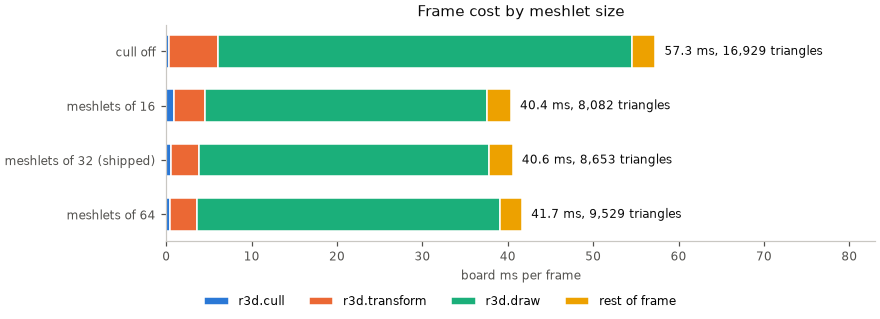
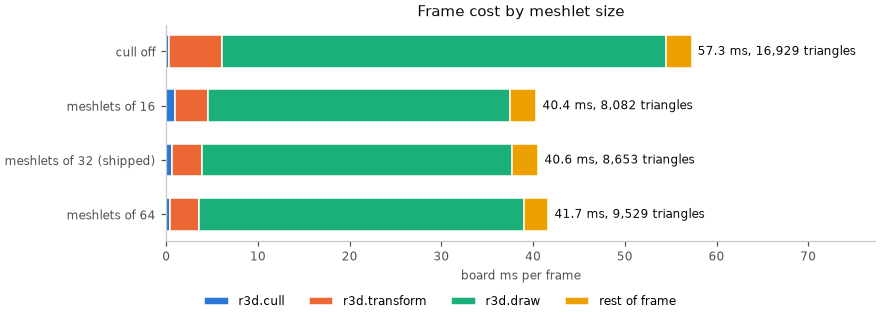
tools: one stacked bar helper for the doc charts; byte units from byte_sizes (fs1c review)

diff --git a/launcher/tools/render/bake_steps.py b/launcher/tools/render/bake_steps.py
@@ -17,18 +17,16 @@ import tempfile
 
 ROOT = pathlib.Path(__file__).resolve().parents[3]
 sys.path.insert(0, str(ROOT / "launcher/tools"))
+from render.byte_sizes import GB_BYTES, MB_BYTES
 from render.doc_tables import collapsed, markdown
 
 PERCENT = 100
-BYTES_PER_MIB = 1024 ** 2
-BYTES_PER_GIB = 1024 ** 3
 OTHER_STEPS = "other steps"  # the steps under MIN_SHARE in every bake, drawn as one segment
 MIN_SHARE = 1  # percent: a step this share of some bake or more gets its own colour
 PANEL_WIDTH = 6  # inches
 ROW_HEIGHT = 0.32  # inches per bar
 PANEL_ROOM = 1.2  # inches for each panel's title, axis and legend
-BAR_HEIGHT = 0.7
-LABEL_ROOM = 0.3  # share of the widest bar left free for its label
+TRIANGLES = "triangles"
 LEGEND_COLUMNS = 4
 THOUSAND = 1000
 
@@ -47,7 +45,7 @@ def steps_table(variants, seconds=False):
     """One row per step of each (variant, rows) run; `seconds` adds the wall time, which only the machine
     that ran the bake can read anything into."""
     def mib(value):
-        return "not available" if value is None else f"{value / BYTES_PER_MIB:.1f}"
+        return "not available" if value is None else f"{value / MB_BYTES:.1f}"
     headers = ["Variant", "Step", *(["Wall s"] if seconds else []), "Share of variant", "Triangles in",
                "Triangles out", "Peak RAM MiB", "Peak VRAM MiB"]
     return markdown(headers, [(variant, row["step"], *([f'{row["wall_s"]:.3f}'] if seconds else []), f"{share:.0f}%",
@@ -61,7 +59,7 @@ def memory_line(variants):
     def peak(key):
         found = [(row[key], row["step"]) for _, rows in variants for row in rows if row[key] is not None]
         return max(found) if found else None
-    parts = [f"{value / BYTES_PER_GIB:.1f} GiB of {name} (in {step})"
+    parts = [f"{value / GB_BYTES:.1f} GiB of {name} (in {step})"
              for name, found in (("RAM", peak("peak_ram_bytes")), ("VRAM", peak("peak_vram_bytes"))) if found
              for value, step in [found]]
     return "Peak memory: " + " and ".join(parts) + "."
@@ -85,8 +83,8 @@ def triangle_bars(variants):
 
 
 def chart(variants, path):
-    """Left: each CPU bake's steps as shares of its wall time. Right: the triangles each step leaves."""
-    from docs.plot_style import INK, LABEL_SIZE, MUTED, SLOTS, save, style_axes, subplots
+    """Top: each CPU bake's steps as shares of its wall time. Bottom: the triangles each step leaves."""
+    from docs.plot_style import LABEL_SIZE, MUTED, SLOTS, save, stacked_barh, style_axes, subplots
     cpu = [(variant, rows) for variant, rows in variants if not on_gpu(rows)]
     named = []
     for _, rows in cpu:
@@ -97,46 +95,33 @@ def chart(variants, path):
         raise ValueError(f"{len(named)} steps, {len(SLOTS) - 1} colours")
     colour = dict(zip([*named, OTHER_STEPS], SLOTS))
     bars = triangle_bars(variants)
-    figure, (left, right) = subplots(2, 1, (PANEL_WIDTH, ROW_HEIGHT * (len(cpu) + len(bars)) + 2 * PANEL_ROOM),
+    figure, (top, bottom) = subplots(2, 1, (PANEL_WIDTH, ROW_HEIGHT * (len(cpu) + len(bars)) + 2 * PANEL_ROOM),
                                      gridspec_kw=dict(height_ratios=[len(cpu), len(bars)]))
-    for index, (_, rows) in enumerate(cpu):
-        start = 0.0
+    stacked = []
+    for variant, rows in cpu:
         merged = {}
         for row, share in zip(rows, shares(rows)):
             step = row["step"] if row["step"] in named else OTHER_STEPS
             merged[step] = merged.get(step, 0.0) + share
-        for step, share in merged.items():
-            left.barh(index, share, left=start, color=colour[step], height=BAR_HEIGHT, edgecolor="white",
-                      label=step)
-            start += share
-    handles, labels = left.get_legend_handles_labels()
-    unique = dict(zip(labels, handles))
-    figure.legend([unique[step] for step in colour if step in unique], [step for step in colour if step in unique],
-                loc="outside upper center", ncol=LEGEND_COLUMNS, frameon=False, fontsize=LABEL_SIZE)
-    left.set_yticks(range(len(cpu)), [variant for variant, _ in cpu])
-    left.set_xlim(0, PERCENT)
-    left.set_xlabel("share of the bake's wall time, %", fontsize=LABEL_SIZE, color=MUTED)
-    style_axes(left, "Where each CPU bake spends its time")
-    for index, (label, count) in enumerate(bars):
-        right.barh(index, count, color=SLOTS[0], height=BAR_HEIGHT)
-        right.annotate(f"{count:,}", (count, index), xytext=(4, 0), textcoords="offset points", va="center",
-                       fontsize=LABEL_SIZE, color=INK)
-    right.set_yticks(range(len(bars)), [label for label, _ in bars])
-    right.set_xlim(0, max(count for _, count in bars) * (1 + LABEL_ROOM))
-    right.xaxis.set_major_formatter(lambda value, _: f"{value / THOUSAND:g}k")
-    right.set_xlabel("triangles", fontsize=LABEL_SIZE, color=MUTED)
-    style_axes(right, "Triangles each step leaves")
-    for axis in (left, right):
-        axis.invert_yaxis()
-        axis.tick_params(axis="y", labelsize=LABEL_SIZE)
-        for side in ("top", "right"):
-            axis.spines[side].set_visible(False)
+        stacked.append((variant, list(merged.items())))
+    stacked_barh(top, stacked, colour, extent=PERCENT)
+    handles = dict(zip(*reversed(top.get_legend_handles_labels())))
+    figure.legend([handles[step] for step in colour if step in handles], [step for step in colour if step in handles],
+                  loc="outside upper center", ncol=LEGEND_COLUMNS, frameon=False, fontsize=LABEL_SIZE)
+    top.set_xlabel("share of the bake's wall time, %", fontsize=LABEL_SIZE, color=MUTED)
+    style_axes(top, "Where each CPU bake spends its time")
+    stacked_barh(bottom, [(label, [(TRIANGLES, count)]) for label, count in bars], {TRIANGLES: SLOTS[0]},
+                 [f"{count:,}" for _, count in bars])
+    bottom.xaxis.set_major_formatter(lambda value, _: f"{value / THOUSAND:g}k")
+    bottom.set_xlabel(TRIANGLES, fontsize=LABEL_SIZE, color=MUTED)
+    style_axes(bottom, "Triangles each step leaves")
     save(figure, path)
 
 
-def block(variants, chart_name):
-    """Render-Pipeline.md's `bake-steps` block: the chart, the memory the bakes need, then the rows collapsed."""
-    return (f"![Bake steps](../images/render/gpu/{chart_name})\n\n{memory_line(variants)}\n\n"
+def block(variants, chart_path):
+    """Render-Pipeline.md's `bake-steps` block: the chart at the doc-relative `chart_path`, the memory the bakes
+    need, then the rows collapsed."""
+    return (f"![Bake steps]({chart_path})\n\n{memory_line(variants)}\n\n"
             + collapsed("Bake steps", steps_table(variants)))
 
 

diff --git a/launcher/tools/render/meshlet_sizes.py b/launcher/tools/render/meshlet_sizes.py
@@ -23,8 +23,6 @@ REST = "rest of frame"  # the frame's time outside STAGES
 CHART_WIDTH = 8  # inches
 CHART_ROW_HEIGHT = 0.45  # inches per bar
 CHART_ROOM = 1.1  # inches for the title, axis and legend
-BAR_HEIGHT = 0.6
-LABEL_ROOM = 0.45  # share of the widest bar left free for its label
 IDENTITY = re.compile(r"\bCAPTURE build_id=([0-9a-f]{12}-diag) pack_crc32=([0-9a-f]{8}) object=(\w+) size=(\d+) cull=([01]) period_ms=(\d+) pose_every_ms=(\d+)")
 BLOCK = re.compile(r"=== (\w+) FRAME COST .*?===.*?(?:\1 both cores: mean [^\n]+)", re.S)
 
@@ -118,25 +116,14 @@ def default_size():
 
 def chart(rows, path):
     """Each row's frame as stacked board stages, its total and submitted triangles at the bar's end."""
-    from docs.plot_style import INK, LABEL_SIZE, MUTED, SLOTS, save, style_axes, subplots
+    from docs.plot_style import LABEL_SIZE, MUTED, SLOTS, save, stacked_barh, style_axes, subplots
     figure, axis = subplots(1, 1, (CHART_WIDTH, CHART_ROW_HEIGHT * len(rows) + CHART_ROOM))
-    labels = [label for label, *_ in rows]
-    for index, (_label, _clusters, _ratio, submitted, *stages, frame) in enumerate(rows):
-        left = 0.0
-        for name, value, colour in zip((*STAGES, REST), (*stages, frame - sum(stages)), SLOTS):
-            axis.barh(index, value, left=left, color=colour, height=BAR_HEIGHT, edgecolor="white",
-                      label=name if index == 0 else None)
-            left += value
-        axis.annotate(f"{frame:.1f} ms, {submitted:,.0f} triangles", (frame, index), xytext=(6, 0),
-                      textcoords="offset points", va="center", fontsize=LABEL_SIZE, color=INK)
-    widest = max(row[-1] for row in rows)
-    axis.set_xlim(0, widest * (1 + LABEL_ROOM))
-    axis.set_yticks(range(len(rows)), labels)
-    axis.invert_yaxis()
+    stacked_barh(axis, [(label, list(zip((*STAGES, REST), (*stages, frame - sum(stages)))))
+                        for label, _clusters, _ratio, _submitted, *stages, frame in rows],
+                 dict(zip((*STAGES, REST), SLOTS)),
+                 [f"{frame:.1f} ms, {submitted:,.0f} triangles" for _, _, _, submitted, *_, frame in rows])
     axis.set_xlabel("board ms per frame", fontsize=LABEL_SIZE, color=MUTED)
     style_axes(axis, "Frame cost by meshlet size")
-    for side in ("top", "right"):
-        axis.spines[side].set_visible(False)
     figure.legend(loc="outside lower center", ncol=len(STAGES) + 1, frameon=False, fontsize=LABEL_SIZE)
     save(figure, path)
 

diff --git a/launcher/tools/render/doc_stages.py b/launcher/tools/render/doc_stages.py
@@ -752,11 +752,11 @@ def _gpu(args, out, work, executor):
     machine = machine_table()
     from bake_steps import block as steps_block, chart as steps_chart
     steps_chart(bake_steps, out / "render/gpu" / BAKE_STEPS_CHART)
-    (out / "tables/bake-steps.md").write_text(steps_block(bake_steps, BAKE_STEPS_CHART))
+    (out / "tables/bake-steps.md").write_text(steps_block(bake_steps, f"../images/render/gpu/{BAKE_STEPS_CHART}"))
     (out / "measurements.json").write_text(json.dumps({"source": stamp, "rows": rows, "sweep": sweep,
                                                         "bake_steps": bake_steps, "machine": machine}, indent=2) + "\n")
     apply_tables(ROOT, out / "tables")
-    sync_images(out / "render/gpu", ROOT / "docs/images/render/gpu", False)
+    sync_images(out / "render/gpu", ROOT / "docs/images/render/gpu", check=False)
     files = {path.relative_to(out).as_posix(): hashlib.sha256(path.read_bytes()).hexdigest()
              for path in out.rglob("*") if path.is_file()}
     (out / "source.json").write_text(json.dumps({"source": stamp, "inputs": made_from, "files": files}, indent=2) + "\n")
@@ -773,10 +773,10 @@ def check_gpu(args, out):
         if not path.is_file() or hashlib.sha256(path.read_bytes()).hexdigest() != checksum:
             raise ValueError(f"GPU output missing or altered: {name}; run --stage gpu")
     changed = apply_tables(ROOT, out / "tables", True)
-    return int(sync_images(out / "render/gpu", ROOT / "docs/images/render/gpu", True) or changed)
+    return int(sync_images(out / "render/gpu", ROOT / "docs/images/render/gpu", check=True) or changed)
 
 
-def sync_images(made, kept, check):
+def sync_images(made, kept, *, check):
     """Copies a stage's PNGs from `made` into the docs' `kept`, or with `check` reports each one that differs
     and each kept one the stage no longer makes; returns whether any did."""
     changed = False
@@ -810,7 +810,7 @@ def meshlets(args, out, work):
     body = table(args.scene, args.captures, args.bakes, made / "meshlet-sizes.png")
     (out / "tables/meshlet-sizes.md").write_text(body)
     changed = apply_tables(ROOT, out / "tables", args.check)
-    changed |= sync_images(made, ROOT / "docs/images/render/meshlets", args.check)
+    changed |= sync_images(made, ROOT / "docs/images/render/meshlets", check=args.check)
     return int(args.check and changed)
 
 

diff --git a/launcher/tools/docs/plot_style.py b/launcher/tools/docs/plot_style.py
@@ -38,6 +38,34 @@ def save(fig, path, dpi=DPI):
     plt.close(fig)
 
 
+BAR_HEIGHT = 0.6  # of each bar's row
+END_LABEL_ROOM = 0.35  # share of the longest bar left free past its end for its label
+END_LABEL_GAP = 4  # points between a bar's end and its label
+
+
+def stacked_barh(axis, rows, colours, end_labels=None, extent=None):
+    """Horizontal stacked bars, the first row on top. `rows` is [(label, [(segment, value)])]; each segment takes
+    colours[segment] and names itself once for a legend. `end_labels` sit past each bar's end. The value axis starts
+    at 0 and spans `extent`, by default the longest bar plus room for its label; the top and right spines are hidden."""
+    named, ends = set(), []
+    for index, (_, segments) in enumerate(rows):
+        left = 0.0
+        for segment, value in segments:
+            axis.barh(index, value, left=left, color=colours[segment], height=BAR_HEIGHT, edgecolor="white",
+                      label=None if segment in named else segment)
+            named.add(segment)
+            left += value
+        ends.append(left)
+    for index, (end, text) in enumerate(zip(ends, end_labels or ())):
+        axis.annotate(text, (end, index), xytext=(END_LABEL_GAP, 0), textcoords="offset points", va="center",
+                      fontsize=LABEL_SIZE, color=INK)
+    axis.set_yticks(range(len(rows)), [label for label, _ in rows])
+    axis.set_xlim(0, max(ends) * (1 + END_LABEL_ROOM) if extent is None else extent)
+    axis.invert_yaxis()
+    for side in ("top", "right"):
+        axis.spines[side].set_visible(False)
+
+
 def style_axes(axis, title, *, square=False):
     """A panel's title, ticks and spines in the palette; square keeps one unit the same length on both axes."""
     axis.set_title(title, fontsize=TITLE_SIZE, color=INK)

diff --git a/launcher/tools/tests/test_doc_stages.py b/launcher/tools/tests/test_doc_stages.py
@@ -564,7 +564,7 @@ class FullGpuSchedulingTests(unittest.TestCase):
             self.assertNotIn("Wall s", table)
             self.assertIn("![Bake steps](../images/render/gpu/bake-steps.png)", table)
             self.assertTrue((out / 'render/gpu/bake-steps.png').is_file())
-            sync.assert_called_once_with(out / 'render/gpu', stages.ROOT / 'docs/images/render/gpu', False)
+            sync.assert_called_once_with(out / 'render/gpu', stages.ROOT / 'docs/images/render/gpu', check=False)
             measured = [function for owner, args, kwargs, function in calls
                         if owner is fitted.fit_point and args[1].name.startswith('fit-')]
             self.assertEqual(len(measured), 3)

diff --git a/launcher/tools/tests/test_pipeline_measures.py b/launcher/tools/tests/test_pipeline_measures.py
@@ -234,7 +234,7 @@ class PipelineMeasuresTests(unittest.TestCase):
         def row(step, wall_s, triangles_in, triangles_out, ram, vram=None):
             return dict(step=step, wall_s=wall_s, triangles_in=triangles_in, triangles_out=triangles_out,
                         peak_ram_bytes=ram, peak_vram_bytes=vram)
-        gib = 1024 ** 3
+        from render.byte_sizes import GB_BYTES as gib
         variants = [("a-bake", [row("load", 1, 0, 100, gib), row("simplify", 3, 100, 10, 2 * gib)]),
                     ("b-bake", [row("load", 1, 0, 100, gib), row("simplify", 1, 100, 20, gib)]),
                     ("b-fit", [row("fit", 9, 20, 15, gib, gib // 2)])]

diff --git a/launcher/tools/render/byte_sizes.py b/launcher/tools/render/byte_sizes.py
@@ -2,6 +2,7 @@
 
 KB_BYTES = 1024
 MB_BYTES = KB_BYTES * KB_BYTES
+GB_BYTES = MB_BYTES * KB_BYTES
 
 
 def size_label(nbytes):

diff --git a/docs/Shared-Helpers.md b/docs/Shared-Helpers.md
@@ -249,7 +249,7 @@ Search the [generated catalogue](#catalogue) for an existing owner before writin
 | [launcher/tools/device/gfx_color.py](../launcher/tools/device/gfx_color.py) | gfx_color: the firmware's RGB565 packing (launcher/main/gfx/target/gfx_color.h) for host tools. | `STEP, expand, rgb565, swap` |
 | [launcher/tools/device/panel_size.py](../launcher/tools/device/panel_size.py) | The panel's own size, read from the board header that owns it (bsp/display.h's BSP_LCD_H_RES x BSP_LCD_V_RES, which gfx.h's GFX_WIDTH x GFX_HEIGHT are), so no tool keeps a copy of its own that could drift. | `DISPLAY_HEADER, PANEL_HEIGHT, PANEL_WIDTH` |
 | [launcher/tools/device/screenshot.py](../launcher/tools/device/screenshot.py) | The screenshot wire protocol and decoder: a pure library, imported by scripts/device/device.py's own `screenshot` subcommand (autana's `autana screenshot`) so there is exactly one decoder to drift out of sync with the device. | `BEGIN_RE, DATA_PREFIX, DEFAULT_TURN_QUARTER, END_LINE, REFUSED_PREFIX, STATE_PREFIX, ScreenshotRefused, TRIGGER, bmp_bytes_to_png, panel_point, read_screenshot, turn_png, write_capture` |
-| [launcher/tools/docs/plot_style.py](../launcher/tools/docs/plot_style.py) | The one matplotlib setup of the doc-figure generators: palette, sizes and save options. | `DPI, FAINT, GIF_COLORS, GIF_FPS, GIF_FRAMES, GIF_MILLISECONDS_PER_SECOND, INK, LABEL_SIZE, MUTED, ORBIT_GIF_COLORS, SLOTS, TITLE_SIZE, WIRE_ALPHA, WIRE_SAMPLES, WIRE_STRIDE, WIRE_WIDTH, figure, save, save_gif, style_axes, subplots, wire_sphere` |
+| [launcher/tools/docs/plot_style.py](../launcher/tools/docs/plot_style.py) | The one matplotlib setup of the doc-figure generators: palette, sizes and save options. | `BAR_HEIGHT, DPI, END_LABEL_GAP, END_LABEL_ROOM, FAINT, GIF_COLORS, GIF_FPS, GIF_FRAMES, GIF_MILLISECONDS_PER_SECOND, INK, LABEL_SIZE, MUTED, ORBIT_GIF_COLORS, SLOTS, TITLE_SIZE, WIRE_ALPHA, WIRE_SAMPLES, WIRE_STRIDE, WIRE_WIDTH, figure, save, save_gif, stacked_barh, style_axes, subplots, wire_sphere` |
 | [launcher/tools/fbx/fbx_to_glb.py](../launcher/tools/fbx/fbx_to_glb.py) | Convert an FBX file to a plain binary glTF. | `CACHE, CONVERTER_SOURCES, HERE, PATH_NAMES, cached_glb, convert, main` |
 | [launcher/tools/gen/draw_palette_gen.h](../launcher/tools/gen/draw_palette_gen.h) | draw_palette_gen, host-only build-time helpers for GFX_LAYOUT_INDEXED: the OKLab colour space every palette generator measures with, and the tables derived from a finished palette (the reverse RGB565 -&gt; index map and the per-(index, Bayer phase) dither tables gfx_indexed.h reads). | `draw_palette_gen_build_dither16, draw_palette_gen_build_dither_cell, draw_palette_gen_build_dither_checker2, draw_palette_gen_build_index_map, draw_palette_gen_build_lut_nearest, gfx_lab_dist2, gfx_lab_t, gfx_lin_t, gfx_lin_to_lab, gfx_rgb_to_lin` |
 | [launcher/tools/gfx/curve_asset.py](../launcher/tools/gfx/curve_asset.py) | Bake a drawn curve from NAME.curve.toml into one named int16 table row. | `GREY_BLUE, GREY_GREEN, GREY_RED, GREY_ROUND, GREY_SHIFT, MAX_NEIGHBOUR_STEP_PX, PEAK_DIVISOR, Q_SHIFT, ROW, SPRING_LINE_HEADER, SUFFIX, TOOLS, TYPE, VIEW_H, VIEW_W, bake, column_height, curve_id, heights` |
@@ -306,8 +306,8 @@ Search the [generated catalogue](#catalogue) for an existing owner before writin
 | [launcher/tools/r3d/task_executor.py](../launcher/tools/r3d/task_executor.py) | GPU stage admission using nonblocking NVML samples and shared process budgets. | `GPU_QUERY_SAMPLE_SECONDS, GPU_QUERY_STALE_SECONDS, TaskExecutor` |
 | [launcher/tools/r3d/tessellate.py](../launcher/tools/r3d/tessellate.py) | Edge splitting that keeps a mesh conforming: each edge is split for every triangle sharing it or for none. | `split_marked_edges` |
 | [launcher/tools/r3d/triangle_sizes.h](../launcher/tools/r3d/triangle_sizes.h) | triangle_sizes: how many of a lit mesh's drawn triangles cover 0, 1, 2-4 or more pixel centres from a lens, counted by the top-left rule from the view itself, so any version of the pipeline means the same; the bounding boxes of the triangles the rasterizer chooses a path for, by shading mode; and the poses file the triangle_sizes tool reads. | `R3D_BOXES_FACE, R3D_BOXES_FLAT, R3D_BOXES_MODES, R3D_BOXES_SIDES, R3D_BOXES_SMOOTH, R3D_SIZES_BINS, R3D_SIZES_MORE, R3D_SIZES_ONE, R3D_SIZES_POSES_MAX, R3D_SIZES_TWO_TO_FOUR, R3D_SIZES_ZERO, r3d_boxes_count, r3d_boxes_print, r3d_boxes_t, r3d_sizes_add, r3d_sizes_count, r3d_sizes_poses_t, r3d_sizes_read_poses, r3d_sizes_read_poses_path, r3d_sizes_t` |
-| [launcher/tools/render/bake_steps.py](../launcher/tools/render/bake_steps.py) | Each step of a scene's mesh bakes: its wall time, the triangles it took and left, and the memory it peaked at. | `BAR_HEIGHT, BYTES_PER_GIB, BYTES_PER_MIB, LABEL_ROOM, LEGEND_COLUMNS, MIN_SHARE, OTHER_STEPS, PANEL_ROOM, PANEL_WIDTH, PERCENT, ROOT, ROW_HEIGHT, THOUSAND, block, chart, main, memory_line, on_gpu, shares, steps_table, triangle_bars` |
-| [launcher/tools/render/byte_sizes.py](../launcher/tools/render/byte_sizes.py) | Binary byte units and compact size labels shared by reports and charts. | `KB_BYTES, MB_BYTES, size_label, total_label` |
+| [launcher/tools/render/bake_steps.py](../launcher/tools/render/bake_steps.py) | Each step of a scene's mesh bakes: its wall time, the triangles it took and left, and the memory it peaked at. | `LEGEND_COLUMNS, MIN_SHARE, OTHER_STEPS, PANEL_ROOM, PANEL_WIDTH, PERCENT, ROOT, ROW_HEIGHT, THOUSAND, TRIANGLES, block, chart, main, memory_line, on_gpu, shares, steps_table, triangle_bars` |
+| [launcher/tools/render/byte_sizes.py](../launcher/tools/render/byte_sizes.py) | Binary byte units and compact size labels shared by reports and charts. | `GB_BYTES, KB_BYTES, MB_BYTES, size_label, total_label` |
 | [launcher/tools/render/check_avi.py](../launcher/tools/render/check_avi.py) | Verify a render_video.c AVI: header, index and file size all agree. | `Avi, AviError, check_file, find_chunk, find_list, main, read_avi, read_chunks` |
 | [launcher/tools/render/code_layout.py](../launcher/tools/render/code_layout.py) | Report, write, or check the cache-line layout of measured code. | `CONFIG_HEADER, DEFAULT_BASELINE_CONFIG, LAUNCHER, LAYOUT_HEADER, LayoutEntry, LayoutError, LayoutRow, PINNED, POOL_JUMP_MAX, REPO, SMALL_LOOP_MAX_LINES, SOURCES, baseline_applies, baselines, build_name, cache_line_size, decode, display_report, find_tool, format_layout, indexed_rows, instructions, layout_differences, layout_entries, layout_rows, line_span, main, parse_layout, parse_objdump, pinned_functions, row_name, run, skip_pools, symbols, target_of` |
 | [launcher/tools/render/colour_maths.py](../launcher/tools/render/colour_maths.py) | colour_maths: the colour conversions the render tools and the r3d fit share. | `D65_WHITE, GAMMA, SRGB_TO_XYZ, expand_565, lab` |
@@ -315,7 +315,7 @@ Search the [generated catalogue](#catalogue) for an existing owner before writin
 | [launcher/tools/render/doc_tables.py](../launcher/tools/render/doc_tables.py) | Markdown tables for generated doc blocks: write, parse back and collapse them, plus the CPU fidelity tables from the doc-image run's comparison logs. | `LOOK_COLUMNS, MICROSECONDS_PER_MILLISECOND, SCORE, SCORE_COLUMNS, SWEEP_GATE_OFF, VARIANT_NOTES, VIEW_HEADER, collapsed, markdown, parse_table, ranked, score_table, scores, small_fill_board, small_fill_styles, sweep_rows, table_rows, variant_label, variant_note, variant_pairs, variant_slug, variants, write_small_fill, write_tables` |
 | [launcher/tools/render/generated_blocks.py](../launcher/tools/render/generated_blocks.py) | Replace named Markdown blocks, retaining the document's line endings. | `MARKER, TOKEN, apply_tables, block_body, block_owners, blocks, check_commands, digest, main, replace_block, verify` |
 | [launcher/tools/render/meshlet_capture.py](../launcher/tools/render/meshlet_capture.py) | Prepare one incremental scratch tree and install meshlet-size bakes for suite captures. | `DEFAULT_WORK, ROOT, SIZES, install_row, main, rebake_scene` |
-| [launcher/tools/render/meshlet_sizes.py](../launcher/tools/render/meshlet_sizes.py) | Generate meshlet-size costs from board captures and scratch bakes. | `BAR_HEIGHT, BLOCK, CHART_ROOM, CHART_ROW_HEIGHT, CHART_WIDTH, IDENTITY, LABEL_ROOM, REST, ROOT, ROWS, STAGES, capture_means, chart, default_size, host_columns, table` |
+| [launcher/tools/render/meshlet_sizes.py](../launcher/tools/render/meshlet_sizes.py) | Generate meshlet-size costs from board captures and scratch bakes. | `BLOCK, CHART_ROOM, CHART_ROW_HEIGHT, CHART_WIDTH, IDENTITY, REST, ROOT, ROWS, STAGES, capture_means, chart, default_size, host_columns, table` |
 | [launcher/tools/render/pinhole_rays.py](../launcher/tools/render/pinhole_rays.py) | Diagnose enclosed sky and estimate fitted mesh coverage with Mitsuba. | `FIT_RENDER_SCALE, FRONT_DEPTH_TOLERANCE, LLVM_VARIANT, NEIGHBOUR_RADIUS_PX, PIXEL_SAMPLES, PROJECTION_SAMPLES, SCALAR_VARIANT, VIDEO_SCALE, classify_against, count_shown, diagnose_frame, enclosed_sky, front_hits, grid_rays, main, mesh_query, pose_rays, rays, shown` |
 | [launcher/tools/render/render_compare.py](../launcher/tools/render/render_compare.py) | Lay renders of two revisions side by side and say how they differ. | `CROP_FRAMES, CSV_HEADER, Cluster, EDGE_GRADIENT, GAIN, HEAT_FULL_SCALE, HOLE_RED, LABEL_BAR, ReferenceStats, ReferenceVideoWriter, SSIM_WINDOW, Stats, ZOOM, angle_sheet, captioned, compare_videos, compose_frame, crop_sheet, crops_path, delta_e76, edge_mask, edge_overlay, find_clusters, frame_line, heat_scale, heatmap, luma_ssim, main, measure, outlined_text, parse_rgb, read_video, reference_bake_sheet, reference_crop_sheet, reference_heatmap, reference_heatmap_from_error, reference_line, reference_measure, reference_sheet, reference_video, sheet, summary_line, video_summary, worst_frames, write_crops, write_reference_bake_sheet, write_video_crops` |
 | [launcher/tools/render/render_diff.py](../launcher/tools/render/render_diff.py) | Compare two frames of this panel pixel for pixel. | `BMP_HEADER_SIZE, Image, load, load_masks, main, masked, read_bmp, read_png, sidecar, sidecar_quarter, to_panel, write_png` |

diff --git a/docs/render/Render-Pipeline.md b/docs/render/Render-Pipeline.md
@@ -12,10 +12,10 @@ demo scene in the [demo assets](../../launcher/demo/README.md);
 
 | [Offline, on the host](#offline-on-the-host) | [Every frame, on the board](#every-frame-on-the-board) |
 |---|---|
-| **[Geometry](#geometry)**<br/>↳ [Source model](#source-model) → [Alpha mask](#alpha-mask) → [Visibility](#visibility) → [Thin](#thin) | **[Scene and camera](#scene-and-camera)** |
+| **[Geometry](#geometry)**<br/>â†³ [Source model](#source-model) â†’ [Alpha mask](#alpha-mask) â†’ [Visibility](#visibility) â†’ [Thin](#thin) | **[Scene and camera](#scene-and-camera)** |
 | **[Light](#light)** | **[Render size](#render-size)** |
-| **[Shape](#shape)**<br/>↳ [Simplify](#simplify) → [Fit](#fit) | **[Update](#update)**<br/>↳ [Cull](#cull) → [Transform](#transform) → [Clip](#clip) → [Span fill](#span-fill) → [Resolve](#resolve) → [View modes](#view-modes) |
-| **[Output](#output)**<br/>↳ [Meshlets](#meshlets) → [Asset pack](#asset-pack) | **[After the send](#after-the-send)**<br/>↳ [Compose](#compose) → [Present](#present) |
+| **[Shape](#shape)**<br/>â†³ [Simplify](#simplify) â†’ [Fit](#fit) | **[Update](#update)**<br/>â†³ [Cull](#cull) â†’ [Transform](#transform) â†’ [Clip](#clip) â†’ [Span fill](#span-fill) â†’ [Resolve](#resolve) â†’ [View modes](#view-modes) |
+| **[Output](#output)**<br/>â†³ [Meshlets](#meshlets) â†’ [Asset pack](#asset-pack) | **[After the send](#after-the-send)**<br/>â†³ [Compose](#compose) â†’ [Present](#present) |
 
 ```mermaid
 flowchart TB
@@ -25,7 +25,7 @@ flowchart TB
             direction LR
             Src["Source<br/>model"] --> Mask["Alpha<br/>mask"] --> Vis["Visibility"] --> Thin["Thin"]
         end
-        Light["Light<br/><i>direct · occlusion · bounce</i>"]
+        Light["Light<br/><i>direct Â· occlusion Â· bounce</i>"]
         subgraph Shape["Shape"]
             direction LR
             Simp["Simplify"] --> Fit["Fit<br/><i>smooth or flat, CUDA</i>"]
@@ -84,7 +84,7 @@ loads it whole.
 |---|---|---|
 | OBJ, MTL, textures | triangles with materials and UVs | `[source]` path and credit |
 
-Cost: `source load` in the bake-steps chart.
+Cost: `source load` in the bake-steps rows.
 
 The source lit per pixel is the reference every bake is scored against (left,
 in the [fidelity sheet](Bake-Quality.md#fidelity-against-the-source)):
@@ -101,7 +101,7 @@ Drops alpha-tested triangles that are mostly transparent; the board does not alp
 |---|---|---|
 | triangles, textures | fewer triangles | `geometry.alpha_mask.keep_alpha` |
 
-Cost: `alpha mask` in the bake-steps chart.
+Cost: `alpha mask` in the bake-steps rows.
 
 ![Triangles kept and dropped by the alpha mask](images/import-alpha-mask.png)
 
@@ -116,7 +116,7 @@ along its path, so the triangle budget goes to what is drawn.
 |---|---|---|
 | triangles, the camera's region or path | the seen triangles | the renderer's `visibility` |
 
-Cost: `visibility` in the bake-steps chart.
+Cost: `visibility` in the bake-steps rows.
 
 ![Triangles the camera region sees](images/import-visibility.png)
 
@@ -131,7 +131,7 @@ to draw whole. It runs after visibility so the share is of what is seen.
 |---|---|---|
 | the seen triangles | fewer of that material's triangles | `geometry.thin.material`, `geometry.thin.keep` |
 
-Cost: `thin` in the bake-steps chart.
+Cost: `thin` in the bake-steps rows.
 
 ![A thinned material](images/import-thin.png)
 
@@ -147,7 +147,7 @@ backend).
 |---|---|---|
 | dense triangles, materials, the scene's lights | a colour per vertex | `[bake]` with `ao` and `indirect`, `[indirect]`, sky, ambient, tone map |
 
-Cost: `light`, and `face colours` for flat meshes, in the bake-steps chart.
+Cost: `light`, and `face colours` for flat meshes, in the bake-steps rows.
 
 ![Albedo against baked light](../images/render/import-light.png)
 
@@ -169,7 +169,7 @@ no seam opens.
 |---|---|---|
 | lit triangles | the variant's mesh | `geometry.simplify`: `dense_edge`, `props`, `props_share`, `seal_seams`, `colour_deviation`; each variant's `triangles` |
 
-Cost: `simplify` in the bake-steps chart.
+Cost: `simplify` in the bake-steps rows.
 
 ![A seam left open and sealed](images/import-seal-seams.png)
 
@@ -188,7 +188,7 @@ per face.
 |---|---|---|
 | a variant, reference renders | the fitted mesh | the renderer's `fit`: prune, poses, optimise, hashes |
 
-Cost: `fit` in the bake-steps chart.
+Cost: `fit` in the bake-steps rows.
 
 ![A fitted mesh against the reference](../images/render/appearance-fitted-full-reference.png)
 
@@ -208,7 +208,7 @@ culls and draws.
 |---|---|---|
 | the final mesh | clusters, nodes, the `.mesh` entry | `geometry.meshlet_triangles` |
 
-Cost: `meshlets` and `write` in the bake-steps chart.
+Cost: `meshlets` and `write` in the bake-steps rows.
 
 The meshlets debug view gives each cluster a flat hue, shown here for the
 full, lite and fitted meshes. Each instance owns a disjoint ID range, reset on
@@ -248,7 +248,7 @@ clip) into one pack; `launcher/demo/` content ships only where an app's
 |---|---|---|
 | the scene, its meshes and clip | one pack per root, the partition image | an app's list of demo assets |
 
-Cost: not timed in the bake-steps chart.
+Cost: not timed in the bake-steps rows.
 
 Reference: [the asset packs](../assets/README.md#packs).
 
